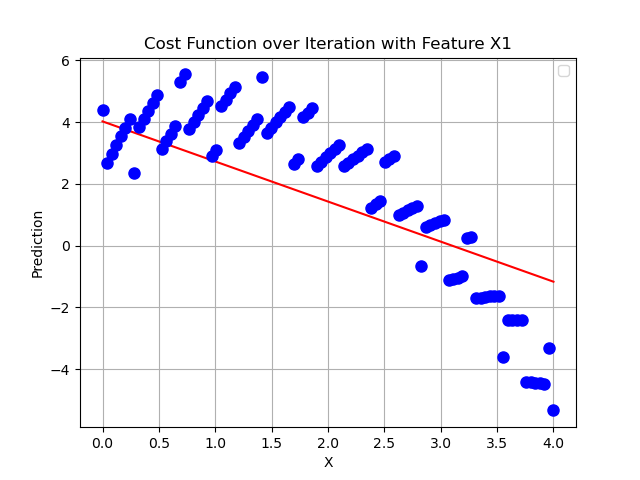
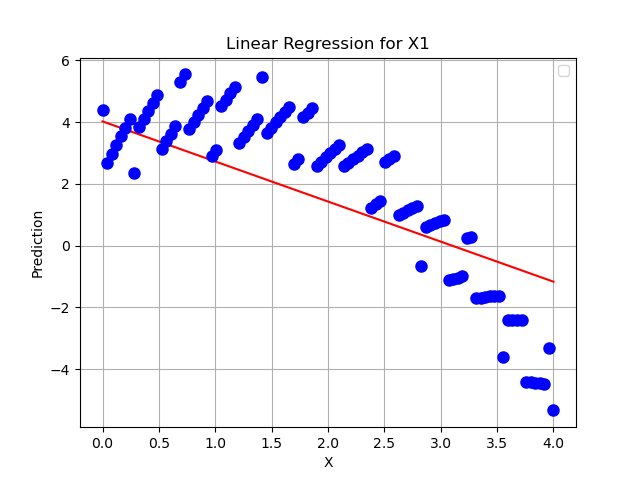
Final Edit
Final changes and graphs made

Changed region(s): [[0.2188, 0.0625, 0.7812, 0.125]]

diff --git a/Assignment1.py b/Assignment1.py
@@ -15,7 +15,7 @@ Assume only one explanatory variable is explaining the output
 Learning rate: Explore between 0.01 and 0.1
 Theta_initial = 0
 """
-#TODO Implement cost function
+#Implement cost function
 def cost_function(theta, X, y):
     m = len(y)
     predictions = X.dot(theta)
@@ -23,7 +23,7 @@ def cost_function(theta, X, y):
     return cost
 
 
-#TODO Implement gradient Descent
+#Implement gradient Descent
 def gradient_descent(X, y, learning_rate, iterations, theta):
     m = len(y)
     cost_history = []
@@ -34,11 +34,11 @@ def gradient_descent(X, y, learning_rate, iterations, theta):
         cost_history.append(cost_function(theta,X,y))
     return theta, cost_history
 
-#TODO Function to run 3 times
+#Function to run 3 times
 variables = ['X1', 'X2', 'X3']
 learning_rate_test = [ 0.01, 0.03, 0.05, 0.07, 0.1]
 
-#plot each regression as it happens
+#Plot Exploration of Different Learning Rates for each variable
 for feature in range(len(variables)):
     plt.figure()
     print(variables[feature])
@@ -49,8 +49,6 @@ for feature in range(len(variables)):
         y = np.asarray(data['Y'])
         cost_function(theta, x, y)
         theta, cost_history = gradient_descent(x, y, learning_rate_test[test_rate], 50, theta)
-        #plot cost_history against index
-        #plot y = mx + b
         plt.plot(range(len(cost_history)), cost_history, label=f'Learning Rate: {learning_rate_test[test_rate]}')
         print(learning_rate_test[test_rate])
     plt.xlabel('Iterations')
@@ -60,7 +58,29 @@ for feature in range(len(variables)):
     plt.grid()
     plt.show()
 
-    final_lr = [0.1, 0.03, 0.07]
+final_lr = [0.1, 0.03, 0.07]
+
+#Plot Final Regressions for chosen Alpha values
+for feature in range(len(variables)):
+    plt.figure()
+    theta = np.zeros(2)
+    x1 = np.asarray(data[variables[feature]])
+    x = np.c_[np.ones((100, 1)), x1]
+    y = np.asarray(data['Y'])
+    cost_function(theta, x, y)
+    theta, cost_history = gradient_descent(x, y, final_lr[feature], 50, theta)
+    print("Final Linear Model: y = {:.2f} + {:.2f} * x".format(theta[0], theta[1],))
+
+    #Plot Final Regression
+    plt.plot(x1, (theta[0] + x1*theta[1]), color='red')
+    plt.plot(x1, y, 'o', color='blue', markersize=8)
+    plt.xlabel('X')
+    plt.ylabel('Prediction')
+    plt.title(f'Linear Regression for {variables[feature]}')
+    plt.legend()
+    plt.grid()
+    plt.show()
+
 for feature in range(len(variables)):
     plt.figure()
     print(variables[feature])
@@ -70,49 +90,54 @@ for feature in range(len(variables)):
     y = np.asarray(data['Y'])
     cost_function(theta, x, y)
     theta, cost_history = gradient_descent(x, y, final_lr[feature], 50, theta)
-    #plot cost_history against index
-    #plot y = mx + b
-    print("Final Linear Model: y = {:.2f} + {:.2f} * x".format(theta[0], theta[1],))
-    plt.plot(x1, (theta[0] + x1*theta[1]), color='red')
-    plt.plot(x1, y, 'o', color='blue', markersize=8)
-    plt.xlabel('X')
-    plt.ylabel('Prediction')
+    plt.plot(range(len(cost_history)), cost_history, label=f'Learning Rate: {final_lr[feature]}')
+    plt.xlabel('Iterations')
+    plt.ylabel('Cost Function')
     plt.title(f'Cost Function over Iteration with Feature {variables[feature]}')
     plt.legend()
     plt.grid()
     plt.show()
 
-
-#TODO Plot each Model and loss(cost function)
 """
 Problem 2
 Run a Linear Regression with gradient descent using all 3 variables
 Learning Rate: Explore between 0.01 and 0.1 (your choice)
 """
 
-#TODO implement function with 3 variables
+#Implement function with 3 variables
 #TODO PLOT Loss
 
 x_all = data.iloc[:, :3]
 x_all = np.c_[np.ones((100,1)), x_all]
-theta = np.zeros(4)
-alpha = 0.01
-theta, cost_history = gradient_descent(x_all, y, alpha, 50, theta)
-# Report final linear model
-print("Final Linear Model: y = {:.2f} + {:.2f} * x1 + {:.2f} * x2 + {:.2f} * x3".format(theta[0], theta[1], theta[2], theta[3]))
+alphas = [0.01, 0.03, 0.05, 0.07, 0.1]
+for a in range(len(alphas)):
+    theta = np.zeros(4)
+    theta, cost_history = gradient_descent(x_all, y, alphas[a], 50, theta)
+    # Report final linear model
+    print("Final Linear Model: y = {:.2f} + {:.2f} * x1 + {:.2f} * x2 + {:.2f} * x3".format(theta[0], theta[1], theta[2], theta[3]))
 
-# Plot loss over iterations
-plt.plot(cost_history)
+    # Plot loss over iterations
+    plt.plot(range(len(cost_history)), cost_history, label=f'Learning Rate: {alphas[a]}')
 plt.xlabel('Iterations')
 plt.ylabel('Loss')
-plt.title(f'Cost Function over Iteration of y')
+plt.title(f'Cost Function over Iteration With 3 Variables')
 plt.grid()
 plt.legend()
 plt.show()
 
 # Predict new values
+theta = np.zeros(4)
+theta, cost_history = gradient_descent(x_all, y, 0.05, 50, theta)
+plt.plot(range(len(cost_history)), cost_history, label=f'Learning Rate: {0.05}')
+plt.xlabel('Iterations')
+plt.ylabel('Loss')
+plt.title(f'Cost Function over Iteration With 3 Variables')
+plt.grid()
+plt.legend()
+plt.show()
+
 new_data = np.array([[1, 1, 1], [2, 0, 4], [3, 2, 1]])
-new_data = (new_data - np.mean(new_data, axis=0)) / np.std(new_data, axis=0)  # Normalize
-new_data = np.hstack((np.ones((new_data.shape[0], 1)), new_data))  # Add intercept term
+new_data = np.c_[np.ones((3,1)), new_data]  # Add intercept term
 predictions = new_data.dot(theta)
 print("Predictions for new data:", predictions)
+print("Final Linear Model: y = {:.2f} + {:.2f} * x1 + {:.2f} * x2 + {:.2f} * x3".format(theta[0], theta[1], theta[2], theta[3]))
